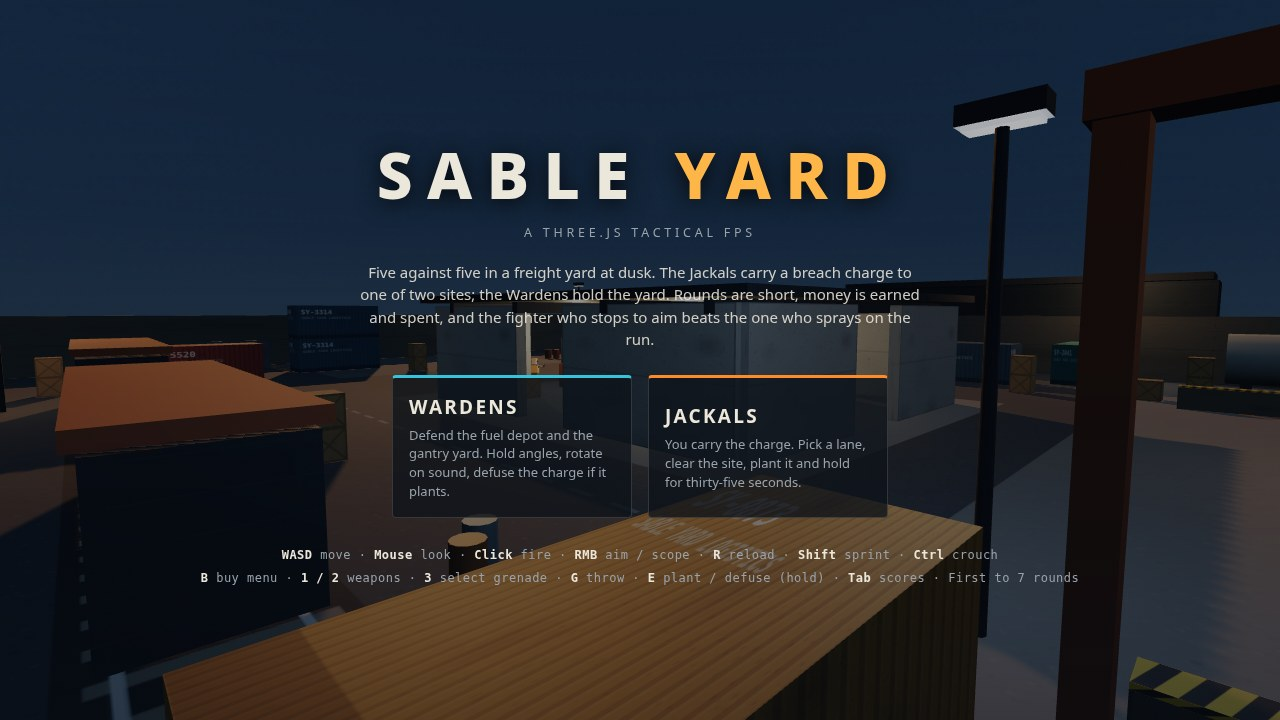
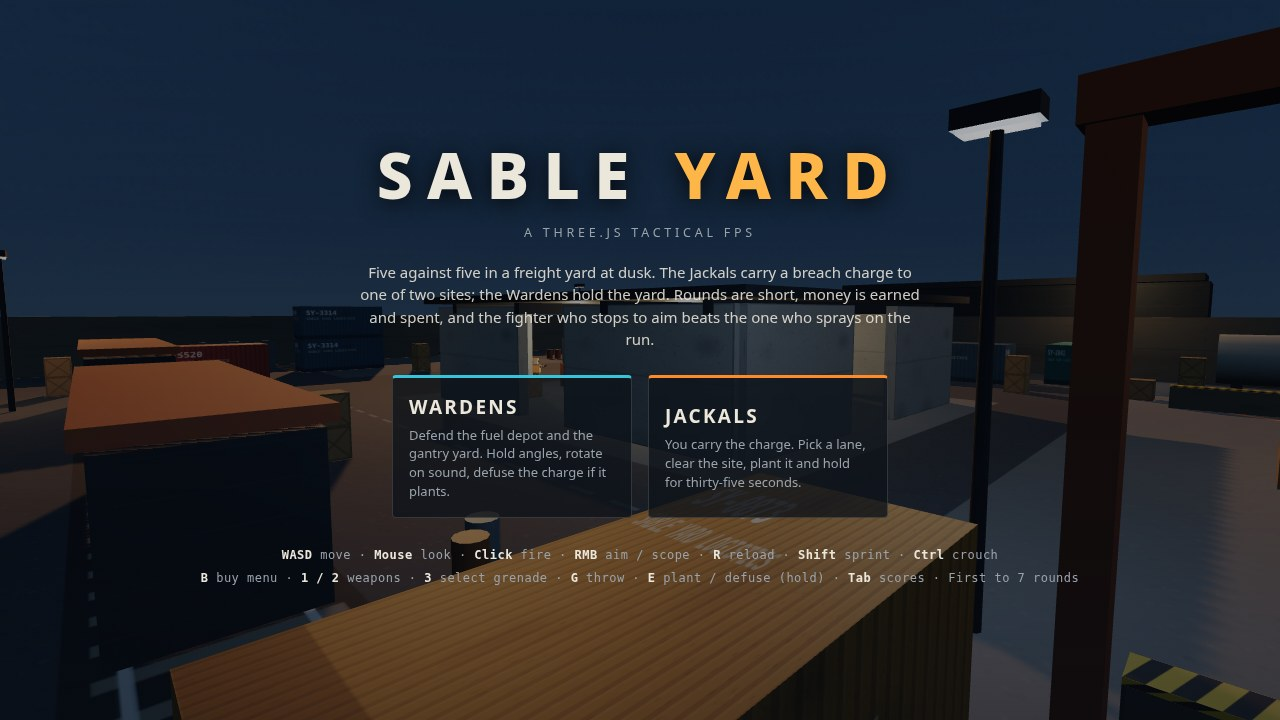
Round 2: bots throw their grenades (frag/flash/smoke with self-flash discipline), soft spark particles, shoulder spectate cam, smaller viewmodel, buy-phase screenshot

diff --git a/game/src/main.js b/game/src/main.js
@@ -10,7 +10,7 @@
 
 import * as THREE from 'three';
 import { S, PHASE, TEAM, mulberry32 } from './state.js';
-import { buildWorld, yawOf } from './world.js';
+import { buildWorld, yawOf, dirFromAngles, rayHitDistance } from './world.js';
 import { initEffects, updateEffects, shakeValue, spawnSmokeFx } from './effects.js';
 import { buildSoldier, updateSoldier, buildViewmodels } from './models.js';
 import { bindInput, input } from './input.js';
@@ -107,6 +107,12 @@ function stageShot() {
   ensureMeshes();
   const p = S.player;
   if (shot === 'play') {
+    // &nades=1 arms every bot with a frag and a flash (a soak-test hook:
+    // round-one money rarely buys grenades, so without it the staged
+    // duel never exercises a bot throw)
+    if (params.get('nades')) {
+      for (const c of S.combatants) if (!c.isPlayer) { c.grenades.frag = 1; c.grenades.flash = 1; }
+    }
     S.phase = PHASE.LIVE;
     S.phaseT = 63;
     S.targetSite = 'B';
@@ -179,6 +185,15 @@ function stageShot() {
       input.yaw = p.yaw;
     }
   }
+  if (shot === 'buy') {
+    // the buy phase with the menu open: a funded player mid-shop at spawn,
+    // armour and a rifle already in the bag, money still on the table
+    p.money = 8000;
+    buyItem(p, 'armorHelmet');
+    buyItem(p, 'ar57');
+    input.yaw = p.yaw;
+    input.pitch = 0.01;
+  }
   if (shot === 'end') {
     S.score.wardens = 7;
     S.score.jackals = 4;
@@ -207,6 +222,7 @@ const STEP = 1 / 60;
 let last = performance.now() / 1000;
 let accumulator = 0;
 const _eye = new THREE.Vector3();
+const _back = new THREE.Vector3();
 let deathT = 0;
 let vmBob = 0;
 let wasBuy = false;
@@ -278,7 +294,18 @@ function poseCamera(dt) {
     deathT = 0;
   }
   playerEye(subject, _eye);
-  if (subject !== p) { _eye.y = subject.pos.y + 1.6; }
+  if (subject !== p) {
+    _eye.y = subject.pos.y + 1.6;
+    // spectating sits a step behind the teammate's shoulder, pulled back
+    // only as far as the geometry allows: at his very eye the camera ends
+    // up inside any crate or wall he happens to be hugging
+    dirFromAngles(subject.yaw, 0, _back);
+    const room = rayHitDistance(_eye.x, _eye.y, _eye.z, -_back.x, 0, -_back.z, 1.15);
+    const pull = room === Infinity ? 1.15 : Math.max(0, room - 0.25);
+    _eye.x -= _back.x * pull;
+    _eye.z -= _back.z * pull;
+    _eye.y += 0.18 * (pull / 1.15);
+  }
   if (!p.alive) _eye.y = Math.max(0.5, _eye.y - Math.min(0.9, deathT * 1.4));
   camera.position.copy(_eye);
   const shake = shakeValue();
@@ -303,14 +330,14 @@ function updateViewmodel(dt) {
   }
   if (!def) return;
   const gun = viewmodels.byDef[p.slots[p.current].def];
-  gun.scale.setScalar(0.88);
+  gun.scale.setScalar(0.8);
   vmBob += dt * (2 + p.moveSpeed * 1.7);
   const bobY = Math.sin(vmBob * 2) * 0.011 * Math.min(1, p.moveSpeed / 4);
   const bobX = Math.cos(vmBob) * 0.008 * Math.min(1, p.moveSpeed / 4);
   const scoped = isScoped(p);
   gun.position.x += ((scoped ? 0 : 0.235) + bobX - gun.position.x) * Math.min(1, dt * 14);
   gun.position.y += ((scoped ? -0.145 : -0.235) + bobY - gun.position.y) * Math.min(1, dt * 14);
-  gun.position.z = -0.42 + (p.recoilPitch || 0) * 0.55;
+  gun.position.z = -0.47 + (p.recoilPitch || 0) * 0.55;
   let dip = 0;
   if (p.reloadT > 0) dip = Math.sin((1 - p.reloadT / def.reload) * Math.PI) * 0.55;
   if (p.switchT > 0) dip = Math.max(dip, Math.sin((p.switchT / 0.38) * Math.PI) * 0.4);

diff --git a/game/src/bots.js b/game/src/bots.js
@@ -50,6 +50,8 @@ export function makeBrain(c) {
     perceiveT: rng() * 0.1,
     burstLeft: 0,
     burstPauseT: 0,
+    nadeT: 0,              // next time this bot may throw a grenade
+    faceAwayT: 0,          // until when it looks away from its own flash
     strafeDir: 1,
     strafeT: 0,
     aimSettle: 0,
@@ -353,11 +355,61 @@ function maybeGrenade(c, dt, toward) {
   }
 }
 
+// --- grenades ---------------------------------------------------------------
+// Bots buy grenades in botBuy; this is where they spend them. A frag goes
+// at a seen enemy in the mid-range band when no teammate is standing near
+// the target (frags hurt everyone). A flash goes in early in a fight, and
+// the thrower looks away from his own pop, then pushes on it. A smoke goes
+// down between a hurt bot and its enemy as a screen to break off behind.
+function throwAt(c, kind, tx, tz, pitch) {
+  const keepYaw = c.yaw, keepPitch = c.pitch;
+  c.yaw = yawOf(tx - c.pos.x, tz - c.pos.z);
+  c.pitch = pitch;
+  const ok = throwGrenade(c, kind);
+  c.yaw = keepYaw; c.pitch = keepPitch;
+  if (ok) c.brain.nadeT = S.time + 8 + S.rng() * 6;
+  return ok;
+}
+
+function maybeThrowNade(c, e, dist) {
+  const b = c.brain;
+  if (S.time < b.nadeT || S.time < b.spotReadyT) return false;
+  const rng = S.rng;
+  const tx = e.pos.x, tz = e.pos.z;
+  if (c.grenades.smoke > 0 && c.hp <= 38 && dist > 5 && dist < 22) {
+    return throwAt(c, 'smoke', c.pos.x + (tx - c.pos.x) * 0.35, c.pos.z + (tz - c.pos.z) * 0.35, -0.55);
+  }
+  // frags and flashes fly an arc: if a wall eats the throw, keep them
+  const arcClear = !visionBlocked(c.pos.x, c.pos.y + 2.1, c.pos.z, tx, 1.6, tz);
+  if (!arcClear) return false;
+  if (c.grenades.frag > 0 && dist > 7 && dist < 19 && rng() < 0.5) {
+    let mateNear = false;
+    for (const m of S.combatants) {
+      if (m.alive && m.team === c.team && m !== c && Math.hypot(m.pos.x - tx, m.pos.z - tz) < 3.2) { mateNear = true; break; }
+    }
+    if (!mateNear) return throwAt(c, 'frag', tx, tz, 0.05 + dist * 0.008);
+  }
+  if (c.grenades.flash > 0 && dist > 9 && dist < 26 && b.aimSettle < 0.4 && rng() < 0.6) {
+    if (throwAt(c, 'flash', tx, tz, 0.05 + dist * 0.008)) {
+      b.faceAwayT = S.time + 0.95;
+      b.spotReadyT = Math.max(b.spotReadyT, S.time + 1.0);
+      return true;
+    }
+  }
+  return false;
+}
+
 function combat(c, dt) {
   const b = c.brain;
   const e = b.enemy;
   const dx = e.pos.x - c.pos.x, dz = e.pos.z - c.pos.z;
   const dist = Math.hypot(dx, dz);
+  // a bot that just threw a flash looks away until it pops, and holds fire
+  if (S.time < b.faceAwayT) {
+    faceToward(c, c.pos.x - dx, c.pos.z - dz, dt, 11);
+    c.wantFire = false;
+    return;
+  }
   b.aimSettle = Math.min(1, b.aimSettle + dt * 1.6);
 
   // aim at the chest, with an error that shrinks as the aim settles; a
@@ -398,6 +450,9 @@ function combat(c, dt) {
     c.vel.x = 0; c.vel.z = 0;
   }
   c.crouch = b.aimSettle > 0.6 && dist > 14 && c.id % 2 === 0;
+
+  // a grenade, when the moment fits, instead of the next burst
+  if (maybeThrowNade(c, e, dist)) { c.wantFire = false; return; }
 
   // fire control: bursts with pauses, only once the reaction time has run
   // and the line is clear this instant

diff --git a/game/src/effects.js b/game/src/effects.js
@@ -66,7 +66,9 @@ export function initEffects(theScene) {
   sparkLife = new Float32Array(MAX_SPARKS);
   sgeo.setAttribute('position', new THREE.BufferAttribute(sparkPos, 3));
   sgeo.setAttribute('color', new THREE.BufferAttribute(sparkCol, 3));
-  sparkPoints = new THREE.Points(sgeo, new THREE.PointsMaterial({ size: 0.09, vertexColors: true, transparent: true, opacity: 0.95, depthWrite: false }));
+  // the glow texture matters: unmapped points draw as hard squares, mapped
+  // ones as the soft round motes a spark should be
+  sparkPoints = new THREE.Points(sgeo, new THREE.PointsMaterial({ size: 0.075, map: glowTex, vertexColors: true, transparent: true, opacity: 0.95, depthWrite: false }));
   sparkPoints.frustumCulled = false;
   scene.add(sparkPoints);
 
